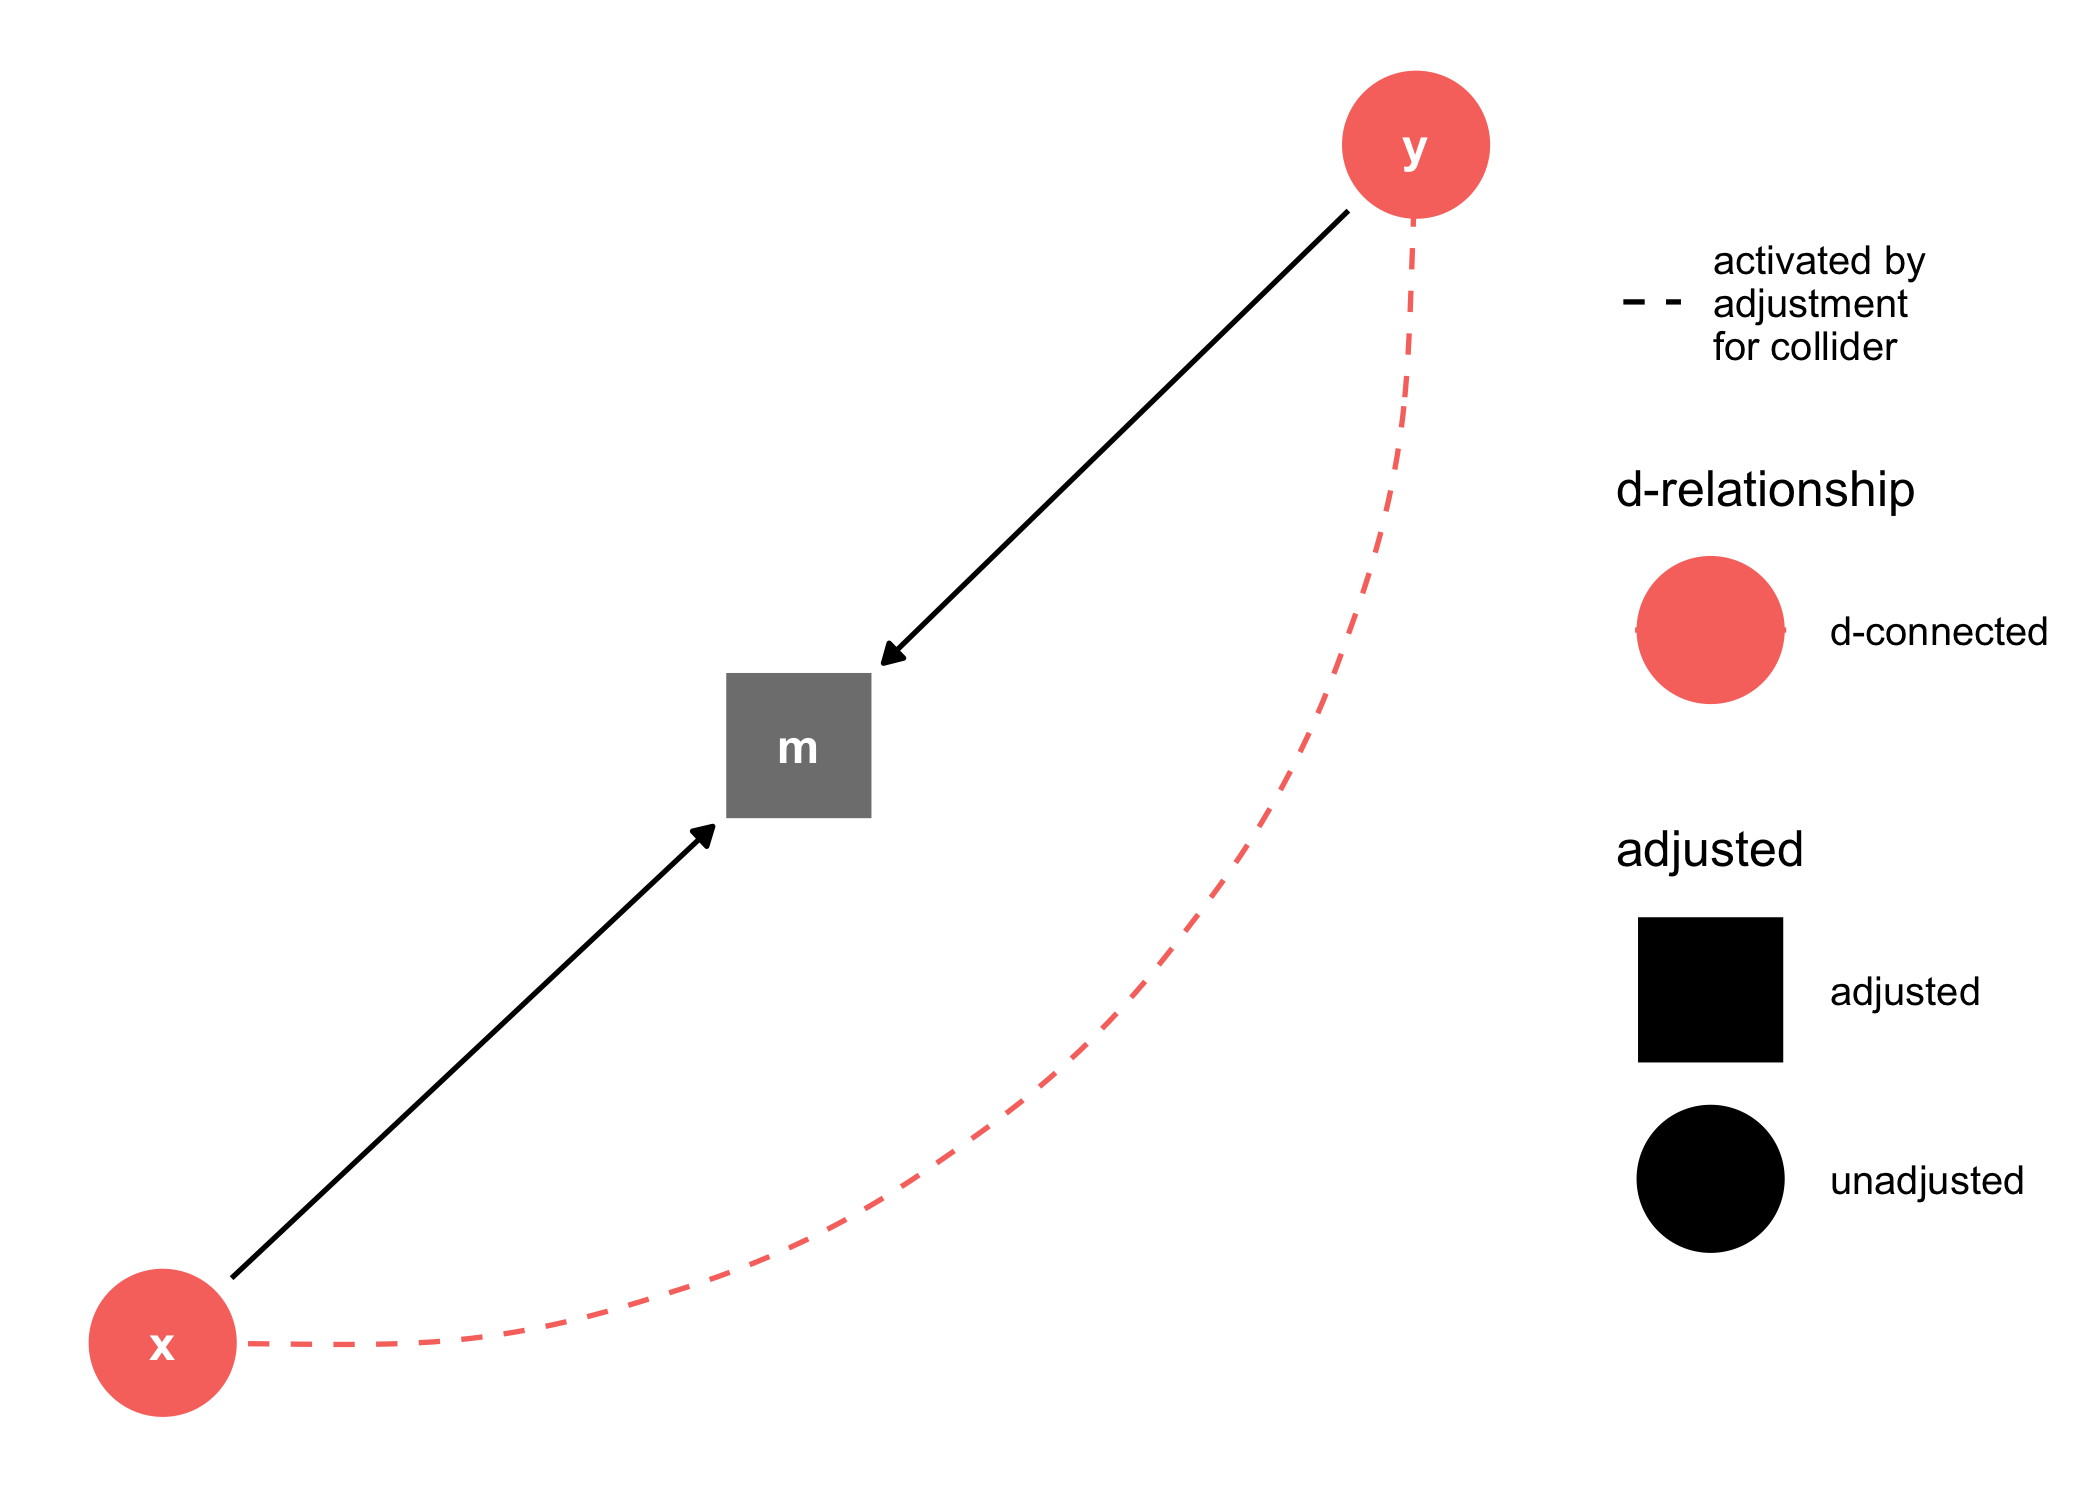
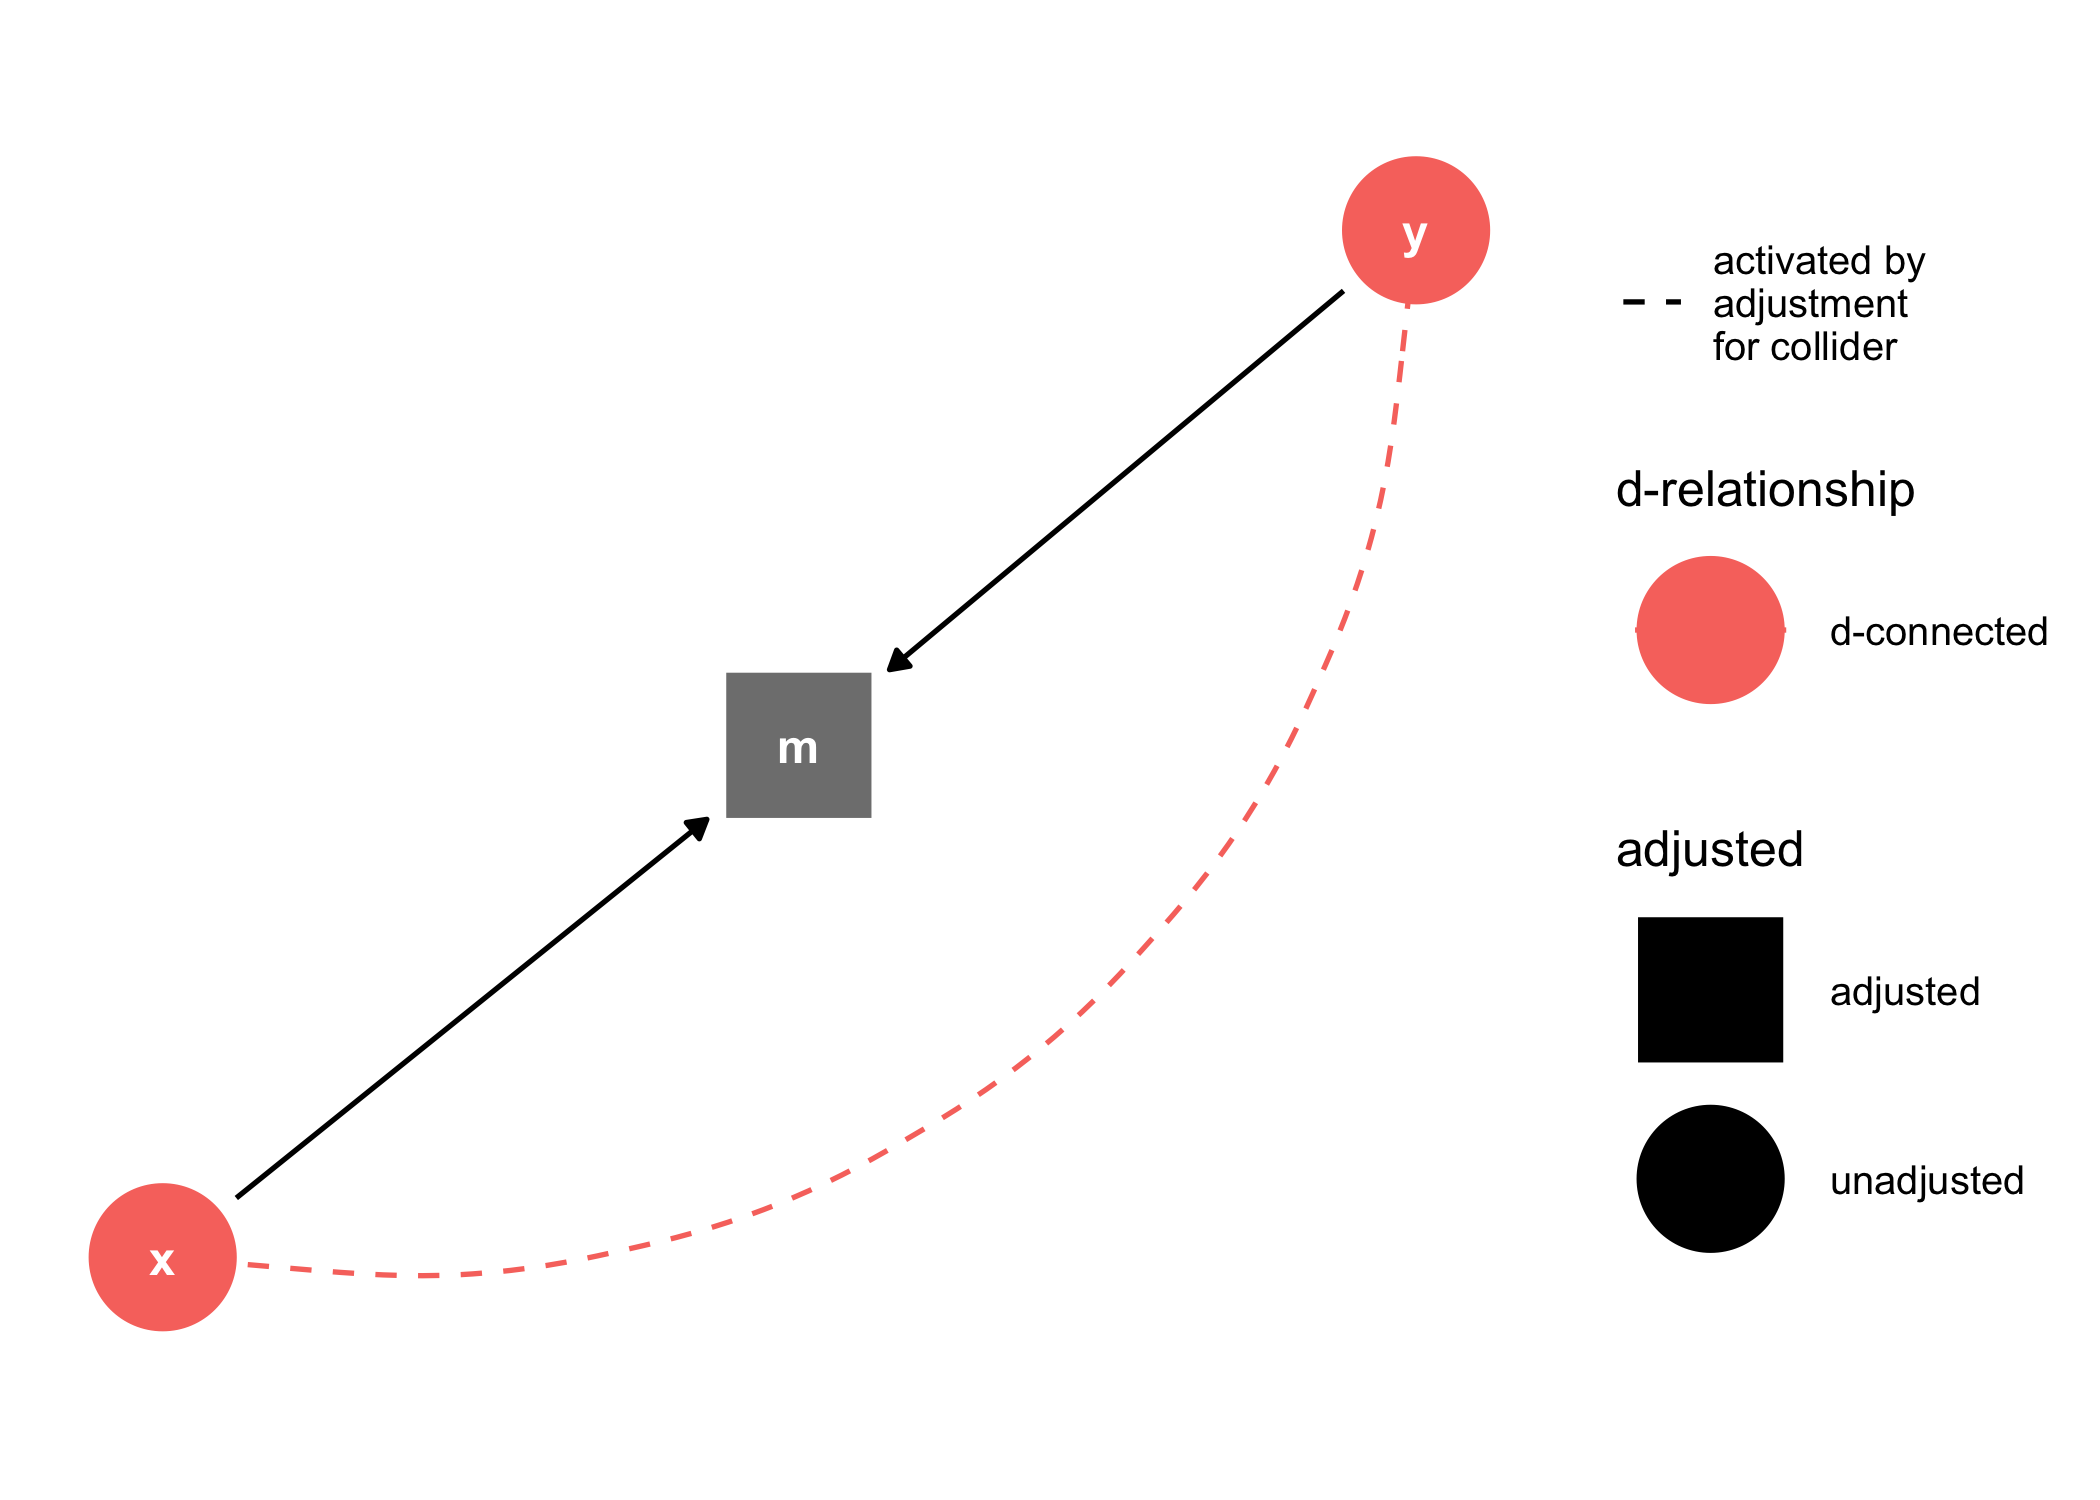
fix readme typo

diff --git a/README.md b/README.md
@@ -130,14 +130,15 @@ As well as geoms and other functions for plotting them directly in
 dagify(m ~ x + y) %>% 
   tidy_dagitty() %>% 
   node_dconnected("x", "y", controlling_for = "m") %>%
-  ggplot(aes(x = x, y = y, xend = xend, yend = yend, shape = adjusted, col = d_relationship), expand_y = expand_scale(c(0.2, 0.2))) +
+  ggplot(aes(x = x, y = y, xend = xend, yend = yend, shape = adjusted, col = d_relationship)) +
     geom_dag_edges(aes(end_cap = ggraph::circle(10, "mm"))) +
     geom_dag_collider_edges() +
     geom_dag_point() +
     geom_dag_text(col = "white") +
     theme_dag() + 
     scale_adjusted() +
-    scale_color_hue(name = "d-relationship")
+    expand_plot(expand_y = expand_scale(c(0.2, 0.2))) +
+    scale_color_hue(name = "d-relationship") 
 ```
 
 <img src="man/figures/README-ggdag_geoms-1.png" width="100%" />
